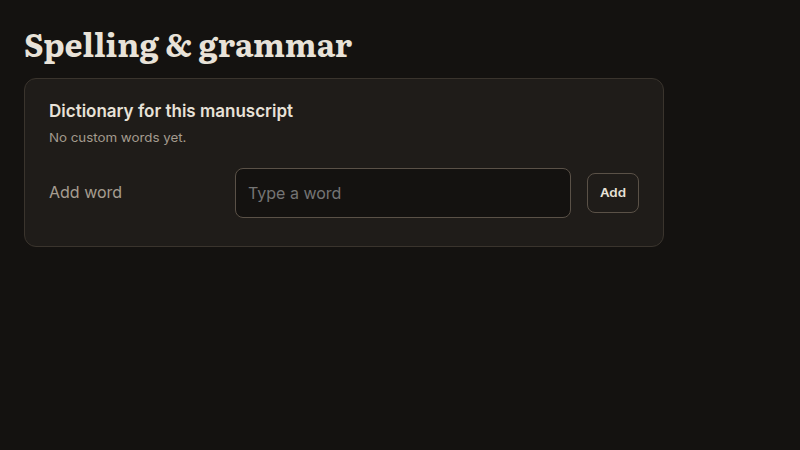
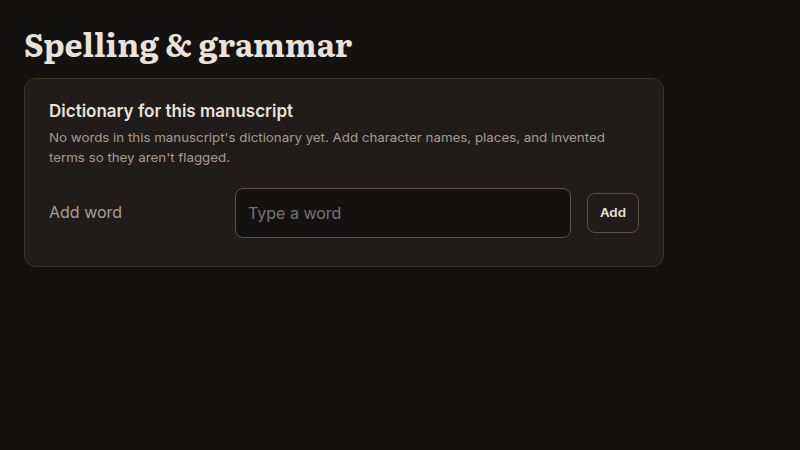
Use Drive mockup settings copy verbatim for #159.
Match sc4/sc5 README strings in DictionarySection, fix SpellMenu test focus typing, and refresh sc4/sc5 evidence captures.

diff --git a/docs/pr-evidence/159/evidence.html b/docs/pr-evidence/159/evidence.html
@@ -165,8 +165,8 @@
     <div class="scene scene-sc4 settings-wrap">
       <h1 class="st-h1">Spelling &amp; grammar</h1>
       <p class="st-muted st-sub">
-        See spelling and grammar issues as you write. Checking runs on this device only—your
-        manuscript text is never sent elsewhere.
+        Check this manuscript as you write. Checking runs on your computer; nothing leaves the
+        machine.
       </p>
       <section class="st-card">
         <h2 class="st-h2">Checking</h2>
@@ -174,18 +174,18 @@
           <span class="st-row__k">Spelling</span>
           <input type="checkbox" role="switch" class="st-switch" checked />
         </div>
-        <p class="st-muted st-desc">Red wavy underline on possible misspellings.</p>
+        <p class="st-muted st-desc">Red wavy underline on words that aren't in the dictionary</p>
         <div class="st-row st-row--toggle">
           <span class="st-row__k">Grammar</span>
           <input type="checkbox" role="switch" class="st-switch" checked />
         </div>
-        <p class="st-muted st-desc">Green wavy underline on possible grammar issues.</p>
+        <p class="st-muted st-desc">Green wavy underline on grammar issues</p>
       </section>
       <section class="st-card">
         <h2 class="st-h2">Dictionary for this manuscript</h2>
         <p class="st-muted st-desc">
-          Words you add here apply only to this book. Character names and invented terms won't be
-          flagged.
+          Words you add stop being flagged as spelling mistakes. The dictionary applies only to this
+          manuscript.
         </p>
         <div class="st-row st-row--add">
           <span class="st-row__k">Add word</span>
@@ -207,7 +207,10 @@
       <h1 class="st-h1">Spelling &amp; grammar</h1>
       <section class="st-card">
         <h2 class="st-h2">Dictionary for this manuscript</h2>
-        <p class="st-muted st-desc">No custom words yet.</p>
+        <p class="st-muted st-desc">
+          No words in this manuscript's dictionary yet. Add character names, places, and invented
+          terms so they aren't flagged.
+        </p>
         <div class="st-row st-row--add">
           <span class="st-row__k">Add word</span>
           <input class="st-inp" type="text" placeholder="Type a word" />

diff --git a/apps/desktop/src/spellcheck/DictionarySection.vue b/apps/desktop/src/spellcheck/DictionarySection.vue
@@ -72,8 +72,8 @@ async function removeWord(word: string) {
   <div data-test="settings-spelling">
     <h1 class="st-h1">Spelling &amp; grammar</h1>
     <p class="st-muted st-sub">
-      See spelling and grammar issues as you write. Checking runs on this device only—your
-      manuscript text is never sent elsewhere.
+      Check this manuscript as you write. Checking runs on your computer; nothing leaves the
+      machine.
     </p>
     <section class="st-card" aria-labelledby="st-spell-toggles">
       <h2 id="st-spell-toggles" class="st-h2">Checking</h2>
@@ -91,7 +91,7 @@ async function removeWord(word: string) {
           @change="persistPrefs"
         />
       </div>
-      <p class="st-muted st-desc">Red wavy underline on possible misspellings.</p>
+      <p class="st-muted st-desc">Red wavy underline on words that aren't in the dictionary</p>
       <div class="st-row st-row--toggle">
         <span id="spell-grammar-label" class="st-row__k">Grammar</span>
         <input
@@ -106,16 +106,17 @@ async function removeWord(word: string) {
           @change="persistPrefs"
         />
       </div>
-      <p class="st-muted st-desc">Green wavy underline on possible grammar issues.</p>
+      <p class="st-muted st-desc">Green wavy underline on grammar issues</p>
     </section>
     <section v-if="manuscriptId && backendAvailable" class="st-card" aria-labelledby="st-dict">
       <h2 id="st-dict" class="st-h2">Dictionary for this manuscript</h2>
       <p v-if="!loading && !words.length" class="st-muted st-desc" data-test="dict-empty">
-        No custom words yet.
+        No words in this manuscript's dictionary yet. Add character names, places, and invented
+        terms so they aren't flagged.
       </p>
       <p v-else-if="words.length" class="st-muted st-desc">
-        Words you add here apply only to this book. Character names and invented terms won't be
-        flagged.
+        Words you add stop being flagged as spelling mistakes. The dictionary applies only to this
+        manuscript.
       </p>
       <form class="st-row st-row--add" @submit.prevent="submitAddWord">
         <label class="st-row__k" for="dict-add">Add word</label>

diff --git a/apps/desktop/src/spellcheck/DictionarySection.test.ts b/apps/desktop/src/spellcheck/DictionarySection.test.ts
@@ -27,9 +27,9 @@ describe('DictionarySection (#159)', () => {
       props: { manuscriptId: 'book-1', backendAvailable: true },
     });
     const text = w.get('[data-test=settings-spelling]').text();
-    expect(text).toContain('Checking runs on this device only');
-    expect(text).toContain('Red wavy underline on possible misspellings.');
-    expect(text).toContain('Green wavy underline on possible grammar issues.');
+    expect(text).toContain('Check this manuscript as you write');
+    expect(text).toContain("Red wavy underline on words that aren't in the dictionary");
+    expect(text).toContain('Green wavy underline on grammar issues');
   });
 
   it('shows sc5 empty dictionary copy before the add-word field', async () => {
@@ -38,7 +38,9 @@ describe('DictionarySection (#159)', () => {
       props: { manuscriptId: 'book-1', backendAvailable: true },
     });
     await flushPromises();
-    expect(w.get('[data-test=dict-empty]').text()).toBe('No custom words yet.');
+    expect(w.get('[data-test=dict-empty]').text()).toContain(
+      "No words in this manuscript's dictionary yet",
+    );
     expect(w.find('[data-test=dict-list]').exists()).toBe(false);
   });
 

diff --git a/apps/desktop/src/spellcheck/SpellMenu.test.ts b/apps/desktop/src/spellcheck/SpellMenu.test.ts
@@ -66,13 +66,13 @@ describe('SpellMenu (#159)', () => {
     expect(document.activeElement).toBe(editor);
 
     editor.blur();
-    w.get('[data-test=spell-ignore]').element.focus();
+    (w.get('[data-test=spell-ignore]').element as HTMLElement).focus();
     await w.get('[data-test=spell-ignore]').trigger('click');
     await flushPromises();
     expect(document.activeElement).toBe(editor);
 
     editor.blur();
-    w.get('[data-test=spell-dictionary]').element.focus();
+    (w.get('[data-test=spell-dictionary]').element as HTMLElement).focus();
     await w.get('[data-test=spell-dictionary]').trigger('click');
     await flushPromises();
     expect(document.activeElement).toBe(editor);
